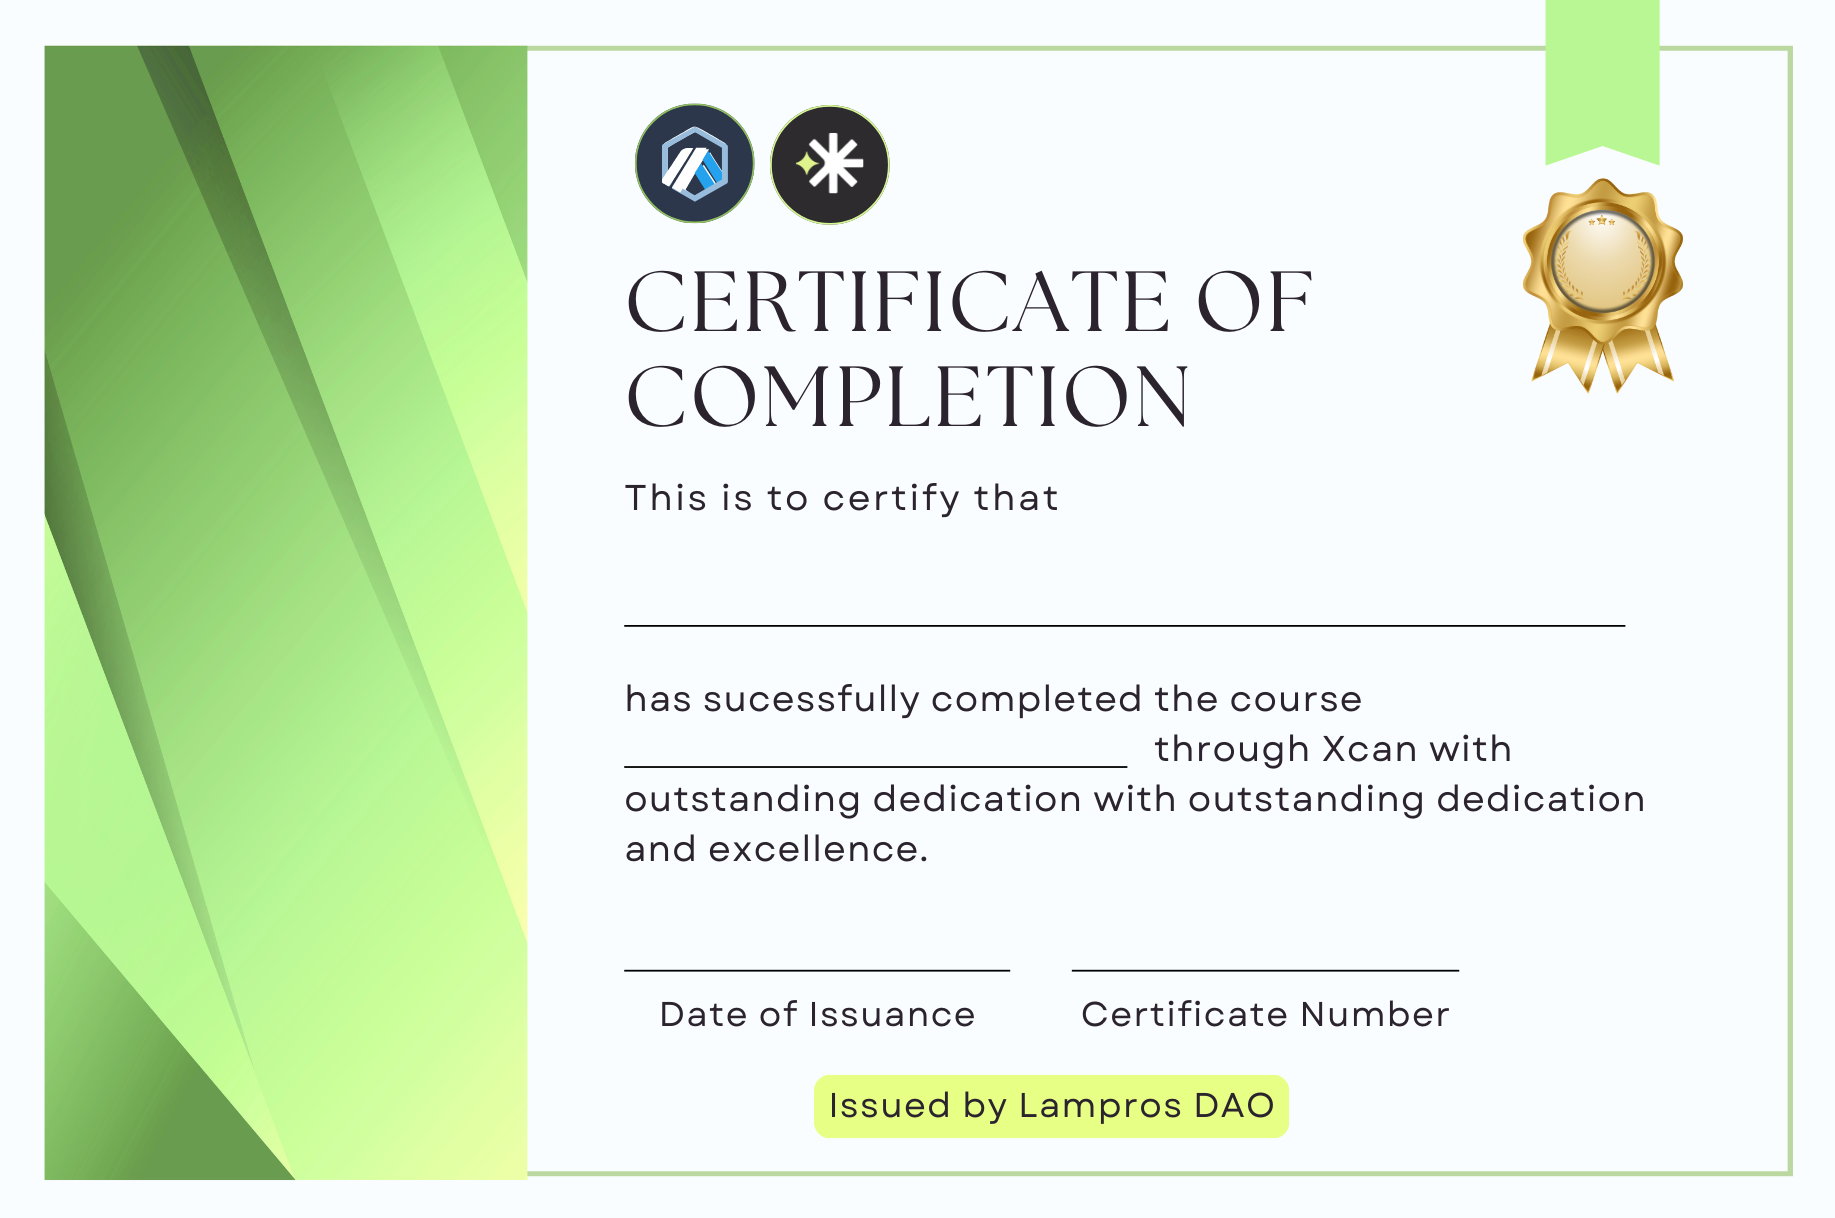
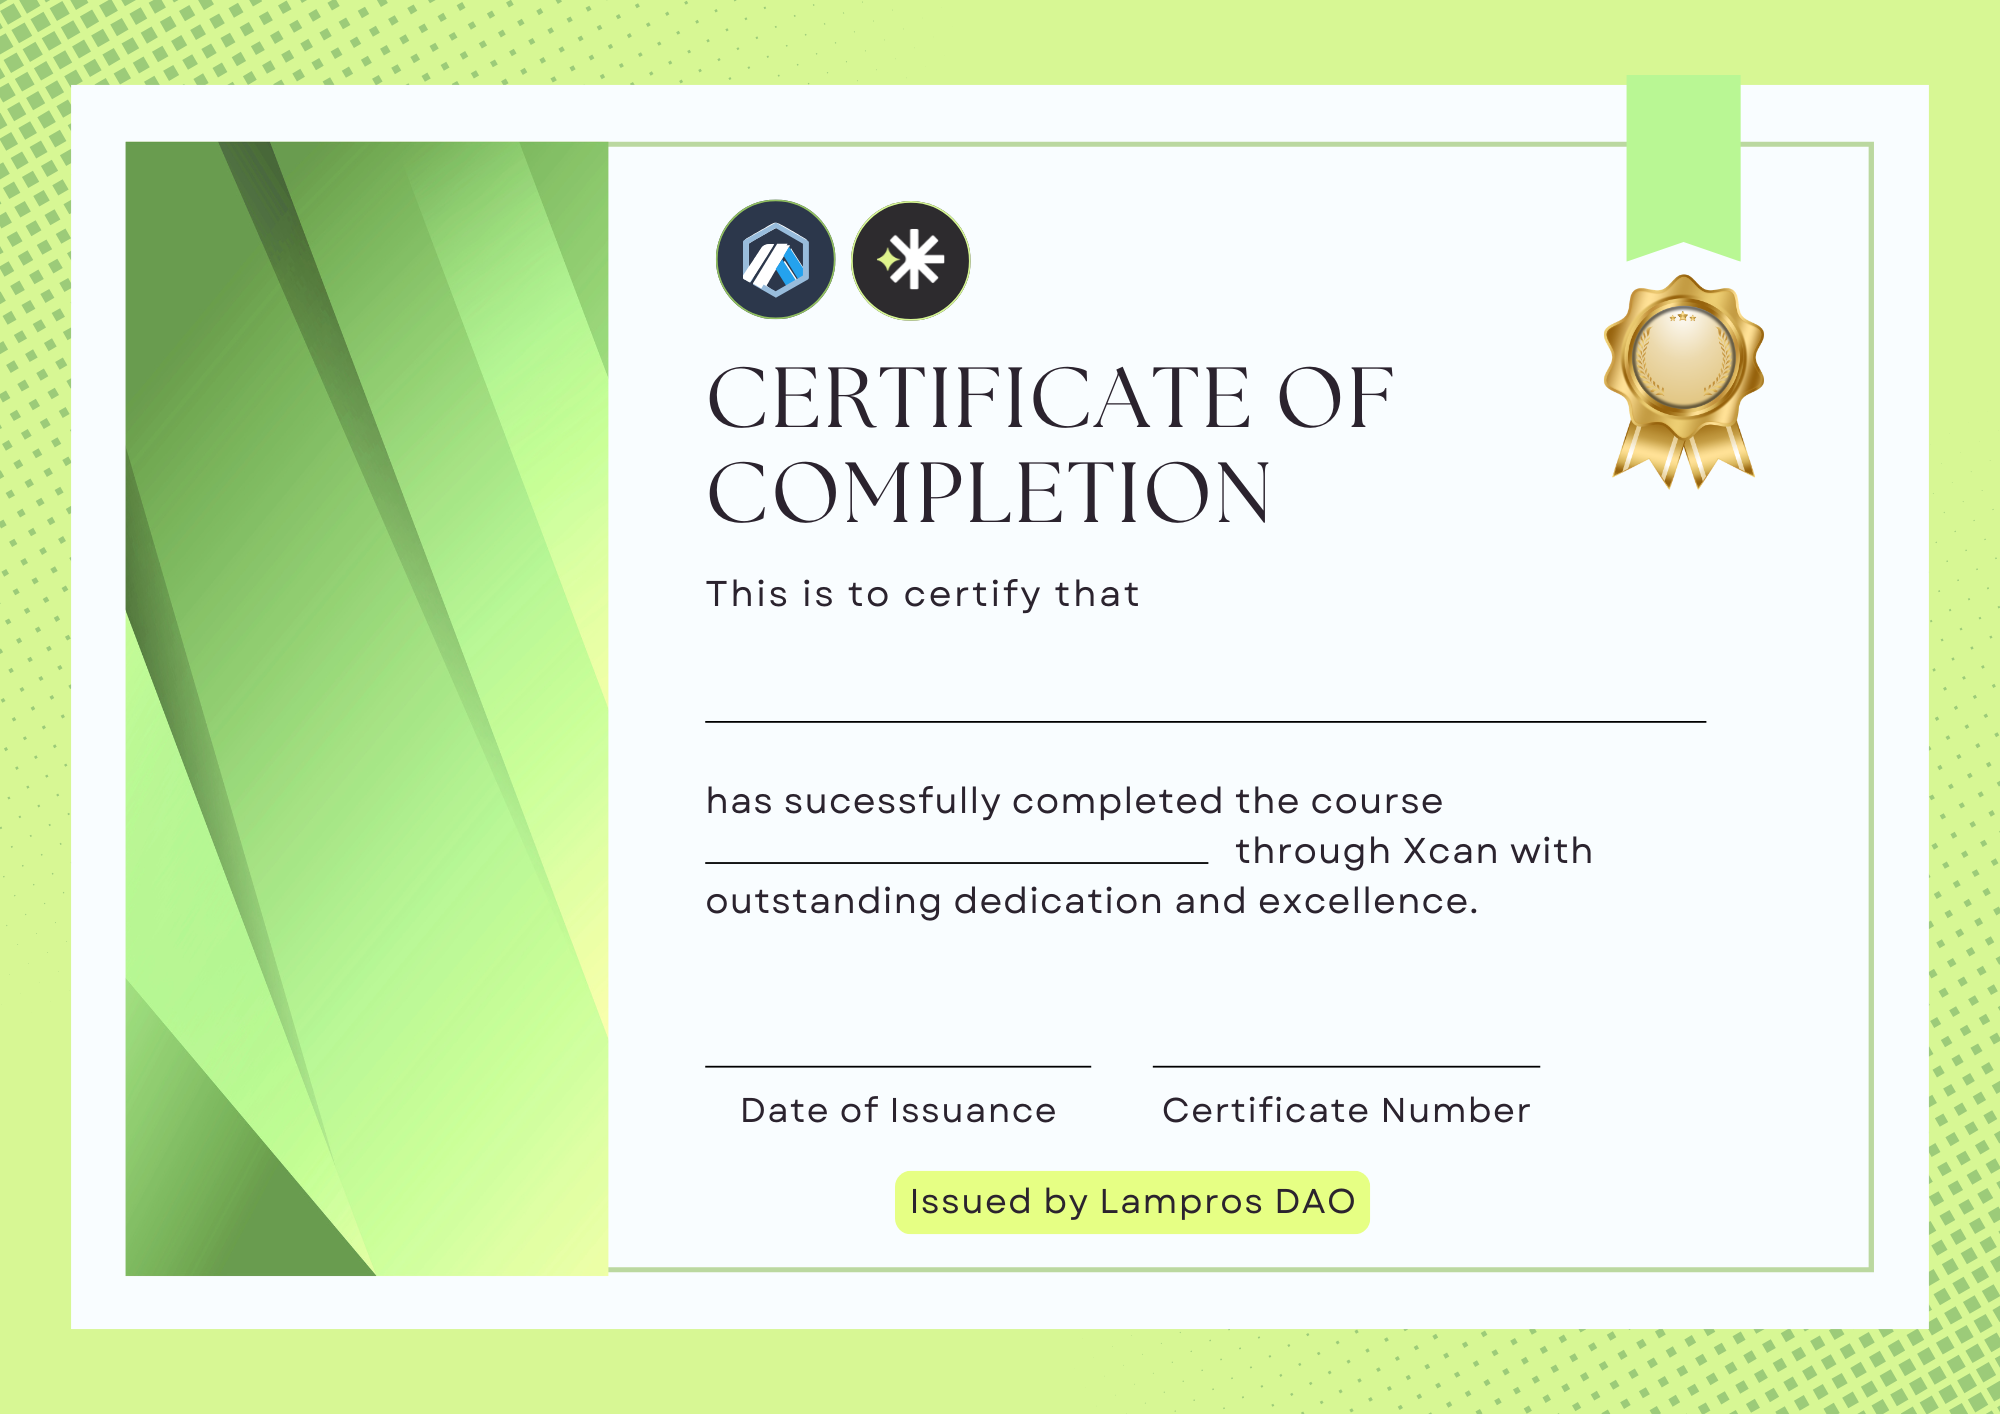
refactor: update certificate

diff --git a/src/components/Certificate.tsx b/src/components/Certificate.tsx
@@ -53,10 +53,11 @@ export default function Certificate({
 
   const displayCourseName =
     courseName.length > 44 ? `${courseName.slice(0, 41)}...` : courseName;
-  const courseNameFontSize = displayCourseName.length > 34 ? "25px" : "27px";
+  const courseNameFontSize = displayCourseName.length > 34 ? "19px" : "22px";
 
   const contentLeft = "26%";
   const contentWidth = "68%";
+  const dynamicFontFamily = "Garet";
 
   const showcasePrefix = moduleRouteKey?.trim()
     ? getCertificatePrefixForModuleKey(moduleRouteKey)
@@ -71,8 +72,7 @@ export default function Certificate({
       style={{
         aspectRatio: "2000 / 1414",
         maxWidth: 1100,
-        fontFamily:
-          "ui-sans-serif, system-ui, -apple-system, 'Segoe UI', Roboto, Arial, sans-serif",
+        fontFamily: dynamicFontFamily,
       }}
     >
       {/* eslint-disable-next-line @next/next/no-img-element */}
@@ -88,15 +88,14 @@ export default function Certificate({
         style={{
           left: contentLeft,
           width: contentWidth,
-          top: "49%",
+          top: "49.25%",
           transform: "translateY(-50%)",
         }}
       >
         <p
           className="max-w-full truncate text-center font-normal tracking-wide"
           style={{
-            fontFamily:
-              "ui-sans-serif, system-ui, -apple-system, 'Segoe UI', Roboto, Arial, sans-serif",
+            fontFamily: dynamicFontFamily,
             fontSize: recipientNameFontSize,
             lineHeight: 1.05,
             color: "#1f2937",
@@ -113,15 +112,14 @@ export default function Certificate({
         style={{
           left: contentLeft,
           width: contentWidth,
-          top: "57.6%",
+          top: "57.17%",
           transform: "translate(-20%,50%)",
         }}
       >
         <p
           className="max-w-[95%] truncate text-center leading-snug"
           style={{
-            fontFamily:
-              "ui-sans-serif, system-ui, -apple-system, 'Segoe UI', Roboto, Arial, sans-serif",
+            fontFamily: dynamicFontFamily,
             fontSize: courseNameFontSize,
             color: "#111827",
             lineHeight: 1.04,
@@ -140,16 +138,15 @@ export default function Certificate({
           style={{
             left: contentLeft,
             width: "40%",
-            top: "76.25%",
+            top: "73.1%",
             transform: "translateX(35%)",
           }}
         >
           <p
             className="text-left font-medium tabular-nums"
             style={{
-              fontFamily:
-                "ui-sans-serif, system-ui, -apple-system, 'Segoe UI', Roboto, Arial, sans-serif",
-              fontSize: "21px",
+              fontFamily: dynamicFontFamily,
+              fontSize: "19px",
               color: "#111827",
               lineHeight: 1.2,
               fontWeight: 400,
@@ -165,17 +162,16 @@ export default function Certificate({
       <div
         className="absolute flex justify-end"
         style={{
-          left: "54%",
-          right: "27.5%",
-          top: "76.25%",
+          left: "56%",
+          width: "16%",
+          top: "73.1%",
         }}
       >
         <p
           className="text-right uppercase tabular-nums"
           style={{
-            fontFamily:
-              "ui-sans-serif, system-ui, -apple-system, 'Segoe UI', Roboto, Arial, sans-serif",
-            fontSize: "21px",
+            fontFamily: dynamicFontFamily,
+            fontSize: "19px",
             color: "#111827",
             letterSpacing: "0.3px",
             lineHeight: 1.2,
